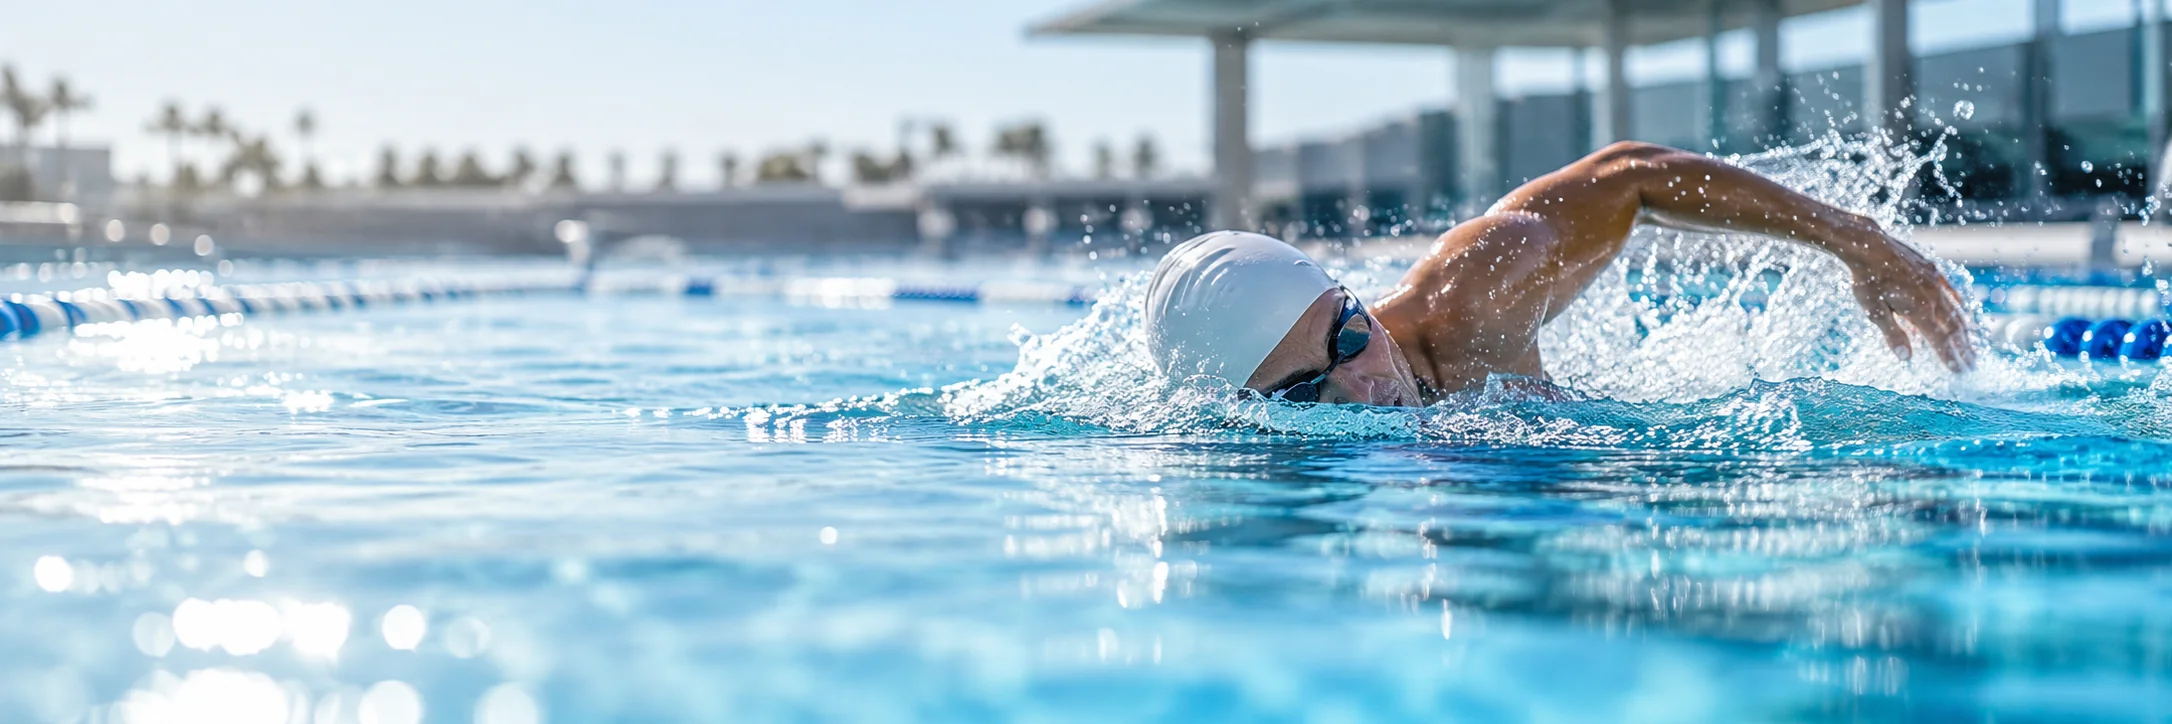
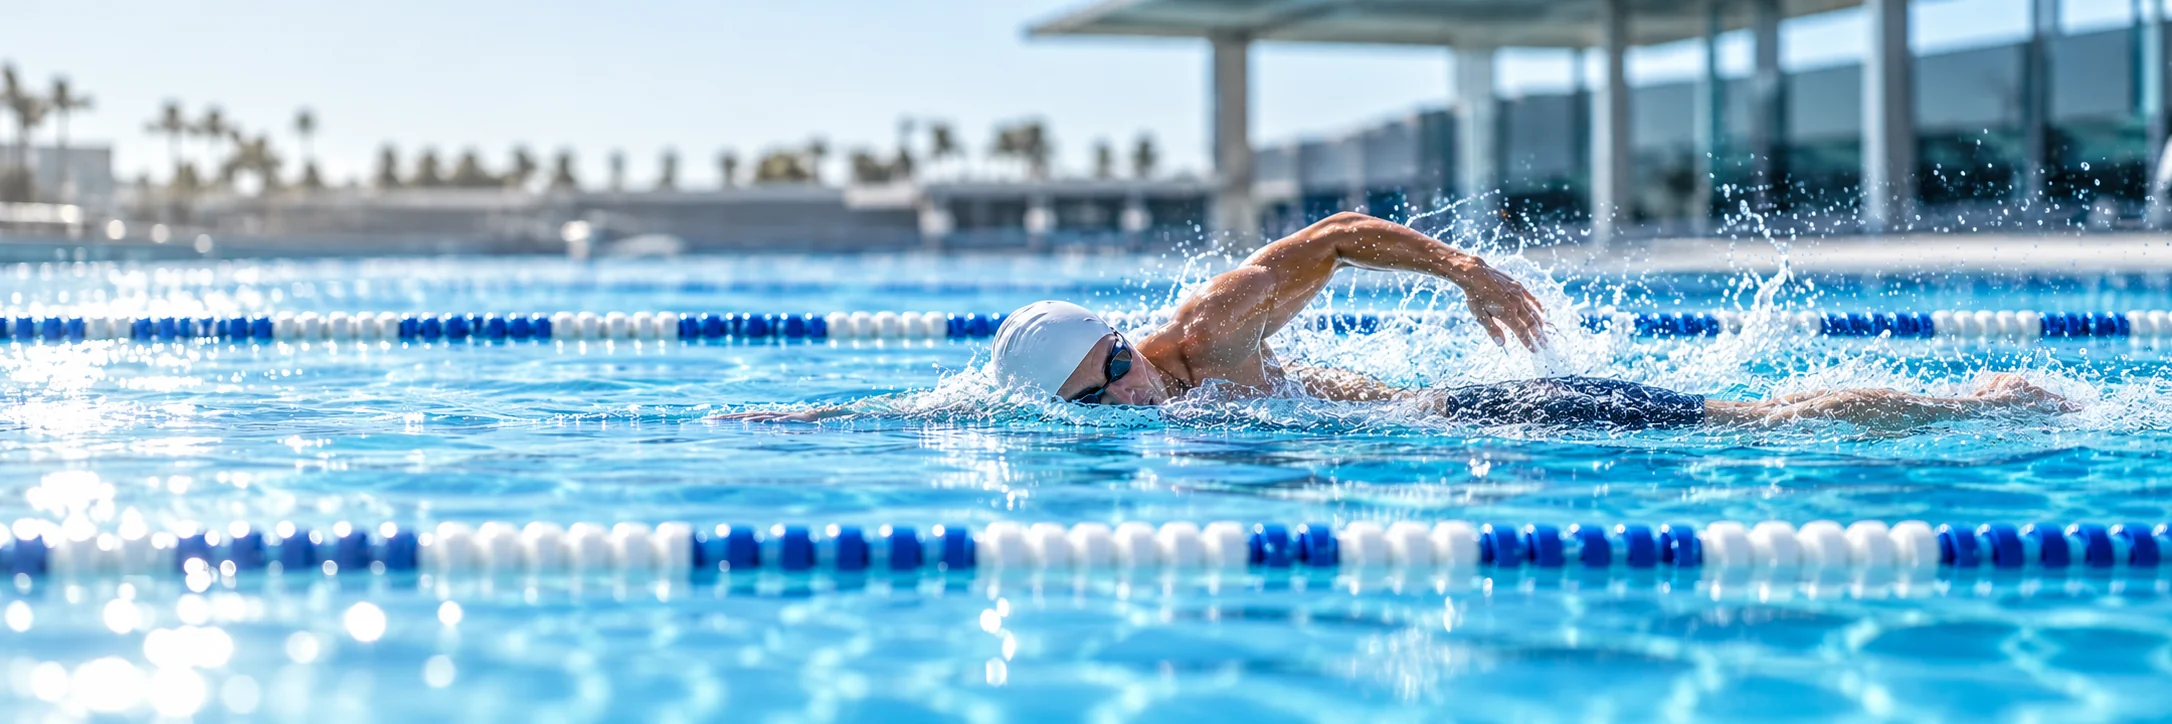
Align the hero swimmer with the pool lane

diff --git a/docs/IMAGE_ASSETS.md b/docs/IMAGE_ASSETS.md
@@ -1,0 +1,10 @@
+# Swimming hero
+
+`public/images/swimmer-hero.webp` was regenerated with the built-in image-generation
+tool on October 17, 2026, then encoded as WebP for the website. The existing hero
+was the edit reference. The correction aligns the swimmer's direction of travel
+with the lane ropes while keeping the wide composition and blue pool palette.
+
+Generation prompt:
+
+> Use case: precise-object-edit. Edit target: the attached current Turnmark website hero. Regenerate this photorealistic swimming hero with physically correct pool geometry. The adult male freestyle swimmer must travel lengthwise INSIDE one lane, exactly parallel to both lane ropes, with his head pointing left and trailing torso, hips and legs extending right along that same left-right lane axis. Camera looks SIDE-ON from the long side of the pool; both bounding blue-and-white lane ropes also extend horizontally left to right across the frame, parallel to his spine and direction of travel. Show enough torso and trailing legs under the clear water that this alignment is unmistakable. Correct natural freestyle technique, one arm recovering, realistic anatomy and splashes. Preserve the current cool blue outdoor pool, natural sun, pale sky, white swim cap, dark goggles, quiet blurred poolside architecture, tasteful editorial sports photography. Very wide 3:1 hero composition, swimmer on the right two-thirds around x=70%, left third mostly open pale blue water for the existing website headline. No text, logos, watermarks or other swimmers. Avoid swimmer crossing ropes or traveling perpendicular/diagonally across lanes; avoid ropes converging in a direction different from the swimmer. Deliver a finished raster hero image.
